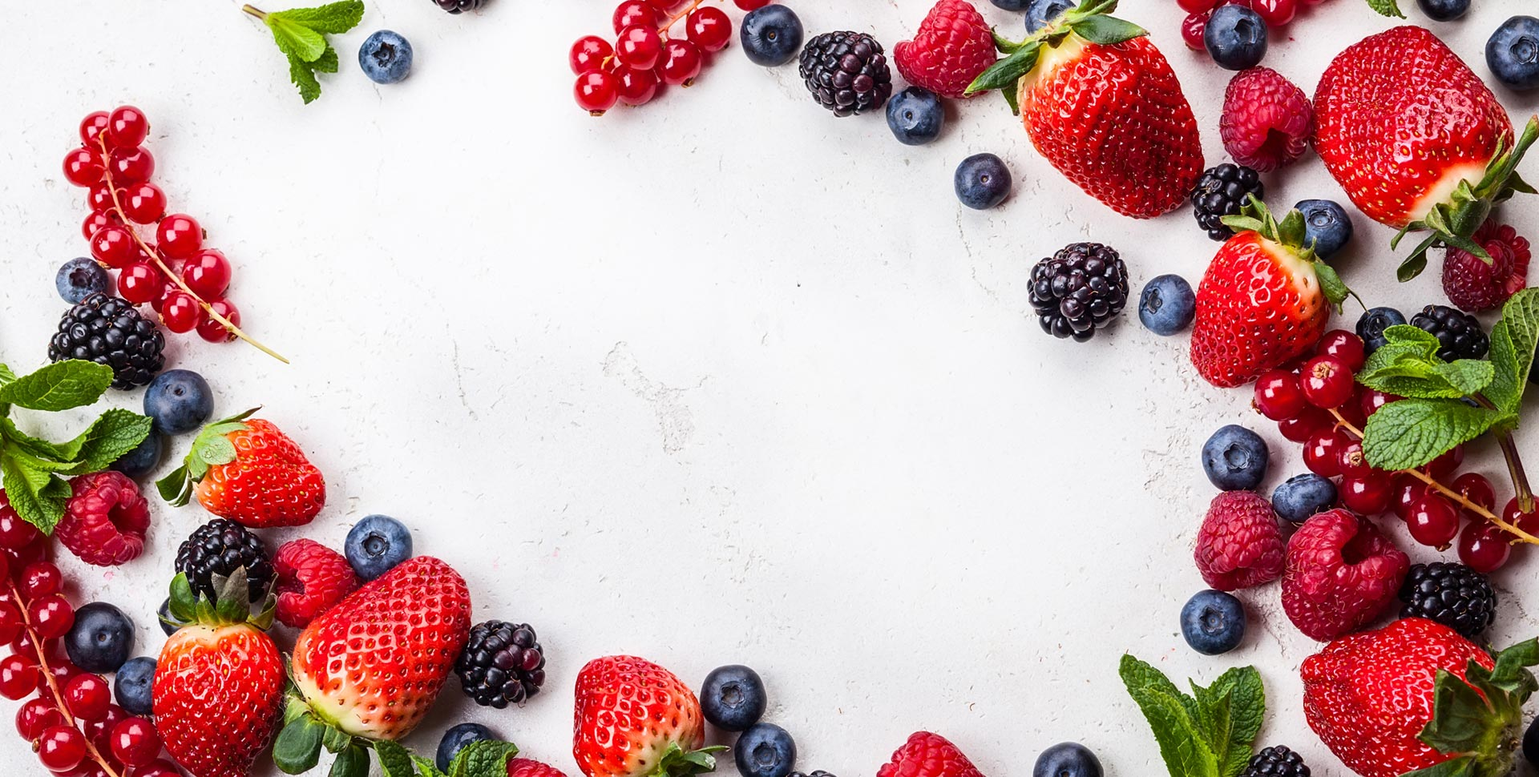
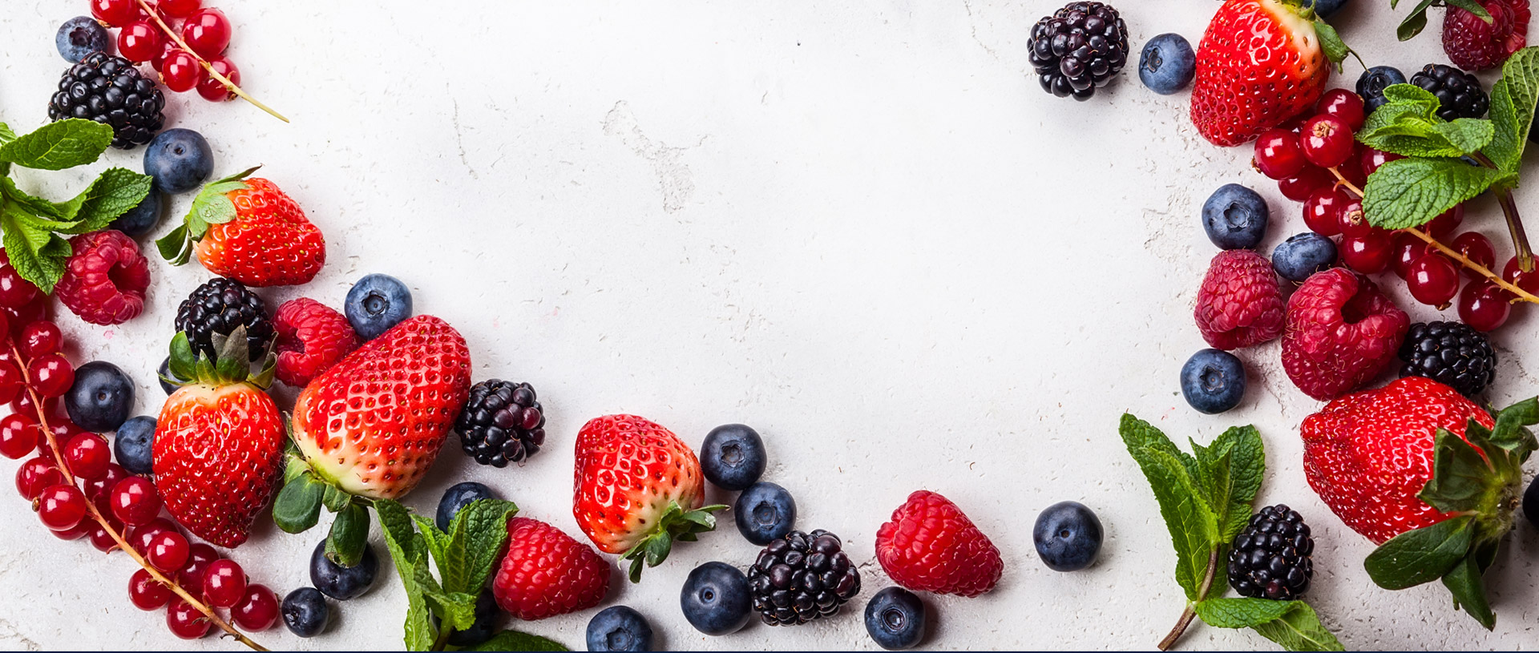
Анимирует иконки в преимуществах

diff --git a/index.html b/index.html
@@ -26,8 +26,12 @@
             </li>
             <li class="site-list__item site-list__item--logo">
               <a class="site-list__link site-list__link--logo">
-                <img src="img/big-logo.svg" class="site-list__image site-list__image--big" alt="Кондитер-сервис" width="175" height="125">
-                <img src="img/small-logo.svg" class="site-list__image site-list__image--small" alt="Кондитер-сервис" width="160" height="50">
+
+                <svg xmlns="http://www.w3.org/2000/svg" viewBox="0 0 177.3 56.4" class="site-list__image site-list__image--small" width="160" height="50"><style>.st4{fill:#97201d}.st5{fill:#322b21}</style><path class="st4" d="M58.4 35c-2.6 1.1-4.2-1.5-7-.2-3 1.3-2.9 6.3-.6 8.8 1.8 1.9 6.5 1.9 9.3.6.8-.4 1.5-1 2.4-.9 0 .3-.2.5-.4.6-4.7 4-10.1 3.2-13.3 1-4.1-2.8-3.5-9.8.3-13.3 2.1-1.9 5.4-2.8 8-2.8 1.5 0 3.2 1.1 3.3 2.7.1 1.1 0 1.4-.3 2-.6 1.2-1.7 1.5-1.7 1.5z"/><path class="st4" d="M63.1 43.1c.7-.3 2.7-2.1 2.9-3.5.1-.7-.6-1.1-1.3-.7-1.2.7-1.9 2.7-1.6 4.2zm.4 1c.1.5.4.7.8.9 2.1.8 3.4.3 4.9-.1.9-.3 2.7-1.3 3.4-1.3.3-.1.1.2.2.4-1.7 1.8-6.2 3.2-8.7 3-2.7-.1-4-2.1-4.1-4.4-.1-2.2 1.1-4.7 3.2-5.7 2-1.1 4.8-1.2 5.7.2 1.7 2.5-1.3 7.3-4.9 7.2l-.5-.2z"/><path class="st4" d="M84.5 42.4c0 .9.9 1.9 2 1.7 1.7 0 2.7-.9 4.2-1.5.9-.4 1.1 0 .3.6-1.6 1.5-3.3 2.4-5.4 2.4h-.2c-2.6-.3-3.5-1.8-3.7-3.7l-.1-.7c-.2-1.1-.4-1.5-1-1.5-.8 0-3 2.7-3.8 4.1-1 1.8-1.5 3.3-2.3 5.6-1 3.1-1.2 5.9-3 5.7-.1 0-.2-.1-.3-.1-1-.3-.9-2.4-.7-4.1.8-5.7 2-13.2 3.6-18.1.4-1.2 1.4-2.2 2.7-2.2.9 0 1.6.7 1.6 2.3v.1c0 1.4-2.9 6.5-3.6 10.4 1.9-4.6 4.5-7.5 6-7.4 2.8.2 3.5 3.7 3.7 6.4z"/><path class="st4" d="M96 43.5s0-.1 0 0c-.2-.8-.9-1.2-1.5-1.4-.4-.1-.5.5-.3.7.3.5 1.8.7 1.8.7zm-3.9-5.7s1.4-.3 2.8-1.3c1.6-1.2 2.9-3.6 1.8-4.3-.9-.5-2.1 1.2-2.8 2.3-.5.7-1.8 3.3-1.8 3.3zm-7.5-.5c.4.2 2.2.6 3.5.8.8.1 1.5.1 1.5.1s1.6-5.8 5-8.1c1.2-.9 3.5-1.4 4.3-.1.7 1.2.7 2.7.4 4.1-.8 3.6-4.5 5.5-7.6 6.2-.1 1 .1 2 .4 2.9.6 1.2 1.2 1.8 2.1 1.8.5 0 .8-.4.8-.4s-.4-.1-.9-.3c-.7-.3-1.6-1-1.6-1.7 0-.3 0-.6.6-1.2 1.1-1 3.9.4 4.1 2 1.1-.2 2.1-.5 3-.8.2-.1.1.1.1.2-.3.7-1.7 1.2-3.2 1.4v.1s-.2 1.9-1.7 2.5c-.6.2-1.4.4-2.3.3-.8-.1-1.1-.3-1.9-.8-2-1.3-2-5.8-2-5.8s-2-.5-2.7-1c-.3-.2-1.6-1.1-2.1-1.7-.2-.4 0-.6.2-.5z"/><path class="st4" d="M111.4 41.3c-.3.7-.5 1.5-.5 2.3 0 .8.5 1.6 1.4 1.9 1.2.1 2.8-1.3 3.4-1.8 1.1-.4.1.7-.3 1-.8.6-2.9 1.8-4 1.8-1.3.1-2.8-1-2.9-2.2-1.6 2.2-3.6 3.3-6.5 2.6-3.3-1.2-3.2-7.1-1.7-9.6.5-1.1 2.1-2 3.4-1.3.5.3.7.8.7 1.3s-.2 1-.4 1.5c-.3.8-1.6 3.4-1.2 4.6.2.7.8 1.1 1.4 1.1 1.1-.1 1.8-.4 2.6-1 1.1-1 1.8-3 2.2-4.2.4-.6 1.1-1.6 2-1.3 1.3.4.9 2.4.4 3.3z"/><path class="st4" d="M128.4 43.8c-.1.4-.4.8-.7 1-2.7 2.2-5.8 2.5-9 2.2-2.8-.3-4.2-2.9-4.1-5.6.1-3.5 3.5-5.1 6.3-5.6 0 0 1-.1 1.7-.1.5 0 1.1.3 1.5.9.3.4.3 1.1-.2 1.6-.6.6-1.8.6-2.6.3-.6-.2-2 .4-2.6.9-.9.9-1.5 2.1-1.4 3.4.3 2 2.7 2.7 4.3 2.8 1.8 0 4.9-1.4 5.9-2.5.1-.1.3-.3.7-.1.4.4.2.7.2.8z"/><path class="st5" d="M23.8 13c.2-.1.4.1.4.3l1.6 6h.2l2.8-7.4c0-.1.1-.2.2-.2l4.7-1.2c.3-.1.5.2.4.5l-3.6 7.3c-.1.2.1.5.3.5 1.8.2 3 1.2 4 2.7 1 1.5 2.1 3.1 3.2 4.5.2.2.1.5-.2.6l-4.2 1.1c-.1 0-.3 0-.4-.1-.8-.9-1.3-1.9-1.9-2.9-.9-1.5-2-2.7-3.8-2.3l-.9.2 1.6 6.1c0 .2-.1.4-.3.4l-3.7 1c-.2.1-.4-.1-.4-.3l-4-15.4c-.1-.2.1-.4.3-.4l3.7-1zM42.4 17.3c.4 2.8 2.3 4.7 4.8 4.3 2.5-.4 3.7-2.7 3.2-5.5-.4-2.8-2.3-4.7-4.8-4.4-2.4.4-3.6 2.8-3.2 5.6zm12.9-2c.7 5-2.2 9.1-7.8 10-5.4.8-9.2-2.3-9.9-7-.8-5 2.3-9.2 7.7-10 5.4-.9 9.3 2.2 10 7zM62.3 7l.4 5.2c0 .2.2.4.5.4l5.4-.4c.3 0 .4-.2.4-.4l-.4-5.2c0-.2.2-.4.4-.4l3.8-.3c.2 0 .4.2.5.4L74.4 22c0 .2-.2.4-.4.4l-4 .2c-.2 0-.4-.2-.5-.4l-.4-5.7c0-.2-.2-.4-.4-.4l-5.4.4c-.2 0-.4.2-.4.4l.4 5.7c0 .2-.2.4-.4.4l-3.8.3c-.2 0-.4-.2-.5-.4l-1-15.6c0-.2.2-.4.4-.4l3.8-.3c.2-.1.4.1.5.4zM84.1 11.2c0 1.6-.3 3.3-.8 4.8-.2.6-.5 1.2-.8 1.8-.2.3.1.7.4.7h3.9c.3 0 .5-.2.5-.5V9.8c0-.3-.2-.5-.5-.5h-2.3c-.3 0-.5.2-.5.5v1.4zM92 6.1l.1 12.1c0 .3.2.5.5.5l.9.1c.3 0 .5.2.5.5l-.2 7c0 .3-.2.5-.5.5h-2.6c-.3 0-.5-.2-.5-.5l-.2-3.6c0-.3-.2-.5-.5-.5l-9.2.1c-.3 0-.5.2-.5.5l-.2 3.5c0 .3-.2.5-.5.5h-2.6c-.3 0-.5-.2-.5-.5l-.2-7.4 1.3-.1c.2 0 .3-.1.4-.2.7-1.1 1.2-2.3 1.6-3.5.4-1.5.6-3.1.6-4.7V6.2c0-.3.2-.5.5-.5l11.3-.1c.3 0 .5.2.5.5zM100.6 6c.3 0 .4.2.4.5l-.3 4c-.2 2.5-.4 5.2-.6 7.7h.1c1.2-2.2 2.6-4.6 3.8-6.4l3.2-5.1c.1-.1.3-.2.4-.2l4.2.3c.2 0 .4.2.4.5l-1 15.7c0 .3-.2.4-.5.4l-3.4-.2c-.3 0-.4-.2-.4-.5l.3-3.9c.2-2.3.3-4.6.8-7h-.1c-1 2.2-2.4 4.6-3.5 6.3l-2.9 4.4c-.1.1-.2.2-.4.2l-5-.3c-.2 0-.4-.2-.4-.5l1-15.7c0-.3.2-.4.4-.4l3.5.2zM118.9 11.4l-3.7-.5c-.3 0-.4-.3-.4-.5l.4-2.8c0-.3.3-.5.5-.4l13 1.8c.3 0 .4.3.4.5l-.4 2.8c0 .3-.3.5-.5.4l-3.8-.5c-.3 0-.5.2-.5.4l-1.6 11.7c0 .3-.3.5-.5.4l-3.6-.5c-.3 0-.4-.3-.4-.6l1.6-11.7c0-.3-.2-.5-.5-.5zM140.9 21.5l-5.7-1.2c-.3-.1-.5.1-.6.4l-.4 1.8c-.1.3.1.5.4.6l6.4 1.4c.3 0 .4.3.4.6l-.6 2.7c-.1.3-.3.4-.6.4l-11-2.3c-.3-.1-.4-.3-.4-.6l3.3-15.3c.1-.3.3-.4.6-.4l10.6 2.3c.3 0 .4.3.4.6l-.6 2.7c-.1.3-.3.4-.6.4l-6.1-1.3c-.3-.1-.5.1-.6.4l-.3 1.5c-.1.3.1.5.4.6l5.6 1.2c.3 0 .4.3.4.6l-.6 2.7c.1.1-.1.3-.4.2zM150.1 21.6c.2.1.5.3 1.1.5 1.7.6 3.2.2 3.7-1.2.4-1.1-.2-2.2-1.9-2.8-.8-.3-1.2-.4-1.5-.4l-1.4 3.9zm-2.1-7.9c.1-.3.4-.4.7-.4 1.2.3 2.9.7 5.4 1.5 2.3.8 3.8 1.8 4.7 3 .8 1.1 1.2 2.8.6 4.5-.5 1.5-1.5 2.7-2.8 3.3-1.8.7-3.9.6-6.3-.2-.5-.2-.9-.4-1.2-.5l-1.6 4.7c-.1.3-.4.5-.8.4l-3.2-1.1c-.3-.1-.5-.4-.4-.7l4.9-14.5zM9.6 22.9c0 1.7-1.3 3-3 3-1.6 0-3-1.3-3-3 0-1.6 1.3-3 3-3 1.6 0 3 1.4 3 3zM168.4 23c0 1.7 1.3 3 3 3s3-1.3 3-3c0-1.6-1.3-3-3-3-1.6 0-3 1.4-3 3z"/>
+                </svg>
+
+                <svg xmlns="http://www.w3.org/2000/svg" viewBox="0 0 177.3 127.3" class="site-list__image site-list__image--big" width="175" height="125"><style>.st7{fill:#97201d}.st6{fill:#322b21}</style><path d="M69.8 63.7c-2.8 0-5 2.2-5 5s2.2 5 5 5c2.7 0 5-2.2 5-5 0-2.7-2.2-5-5-5zm32.6 0c-2.8 0-5 2.2-5 5s2.2 5 5 5 5-2.2 5-5c0-2.7-2.2-5-5-5zm0 2.4c-1.4 0-2.6 1.2-2.6 2.6 0 1.4 1.1 2.6 2.6 2.6 1.4 0 2.6-1.2 2.6-2.6 0-1.4-1.1-2.6-2.6-2.6zM66.6 63c.1-.1.1-.3-.1-.3h-4.3c-2.2-.1-1.9 1.5-1.9 3.5 0 1.9-.2 3.4 2 3.4h1c0-.3-.1-.6-.1-.9 0-2.4 1.4-4.5 3.4-5.7zm45 6.7h-2.3c-.3 0-.7 0-.6-.4.5-2.9-1.1-5.2-2.1-5.9-1.2-.9-2.8-1.3-4.3-1.3-3.6 0-6.5 3-6.5 6.6 0 .3 0 .7.1 1H76.3c0-.3.1-.7.1-1 0-2.5-1.4-4.7-3.5-5.8-.1 0-.1-.2 0-.2h17.2c.3 0 .6-.3.6-.6l.1-19.6c0-.8.7-1.5 1.5-1.5 3.3-.1 8.5 0 8.5 0s.9 0 2 .4c2.4.8 4.4 3.7 6.3 6.1 1 1.1 2.1 2.5 2.9 3.6 1 1.3 1.9 2.7 2 3.9.2 2.3.3 5.5.4 8.7-.1 2.6.2 5.5-2.8 6zm-2.9-18.5c.4.6 1.1 1.2.7 1.9-.3.6-.8.5-.8.5H95c-.6 0-1.1-.5-1.1-1.1v-7.9c0-.6.4-1.2 1-1.2l3.6-.1h2.7c1.8.5 5.5 5 7.5 7.9zM69.8 66.1c-1.4 0-2.6 1.2-2.6 2.6 0 1.4 1.1 2.6 2.6 2.6s2.6-1.2 2.6-2.6c0-1.4-1.1-2.6-2.6-2.6z" fill-rule="evenodd" clip-rule="evenodd" fill="#322b21"/><path class="st7" d="M58.4 105.9c-2.6 1.1-4.2-1.5-7-.2-3 1.3-2.9 6.3-.6 8.8 1.8 1.9 6.5 1.9 9.3.6.8-.4 1.5-1 2.4-.9 0 .3-.2.5-.4.6-4.7 4-10.1 3.2-13.3 1-4.1-2.8-3.5-9.8.3-13.3 2.1-1.9 5.4-2.8 8-2.8 1.5 0 3.2 1.1 3.3 2.7.1 1.1 0 1.4-.3 2-.6 1.1-1.7 1.5-1.7 1.5z"/><path class="st7" d="M63.1 113.9c.7-.3 2.7-2.1 2.9-3.5.1-.7-.6-1.1-1.3-.7-1.2.8-1.9 2.7-1.6 4.2zm.4 1.1c.1.5.4.7.8.9 2.1.8 3.4.3 4.9-.1.9-.3 2.7-1.3 3.4-1.3.3-.1.1.2.2.4-1.7 1.8-6.2 3.2-8.7 3-2.7-.1-4-2.1-4.1-4.4-.1-2.2 1.1-4.7 3.2-5.7 2-1.1 4.8-1.2 5.7.2 1.7 2.5-1.3 7.3-4.9 7.2l-.5-.2z"/><path class="st7" d="M84.5 113.3c0 .9.9 1.9 2 1.7 1.7 0 2.7-.9 4.2-1.5.9-.4 1.1 0 .3.6-1.6 1.5-3.3 2.4-5.4 2.4h-.2c-2.6-.3-3.5-1.8-3.7-3.7l-.1-.7c-.2-1.1-.4-1.5-1-1.5-.8 0-3 2.7-3.8 4.1-1 1.8-1.5 3.3-2.3 5.6-1 3.1-1.2 5.9-3 5.7-.1 0-.2-.1-.3-.1-1-.3-.9-2.4-.7-4.1.8-5.7 2-13.2 3.6-18.1.4-1.2 1.4-2.2 2.7-2.2.9 0 1.6.7 1.6 2.3v.1c0 1.4-2.9 6.5-3.6 10.4 1.9-4.6 4.5-7.5 6-7.4 2.8.1 3.5 3.6 3.7 6.4z"/><path class="st7" d="M96 114.3c-.2-.8-.9-1.2-1.5-1.4-.4-.1-.5.5-.3.7.3.6 1.8.7 1.8.7zm-3.9-5.6s1.4-.3 2.8-1.3c1.6-1.2 2.9-3.6 1.8-4.3-.9-.5-2.1 1.2-2.8 2.3-.5.6-1.8 3.3-1.8 3.3zm-7.5-.6c.4.2 2.2.6 3.5.8.8.1 1.5.1 1.5.1s1.6-5.8 5-8.1c1.2-.9 3.5-1.4 4.3-.1.7 1.2.7 2.7.4 4.1-.8 3.6-4.5 5.5-7.6 6.2-.1 1 .1 2 .4 2.9.6 1.2 1.2 1.8 2.1 1.8.5 0 .8-.4.8-.4s-.4-.1-.9-.3c-.7-.3-1.6-1-1.6-1.7 0-.3 0-.6.6-1.2 1.1-1 3.9.4 4.1 2 1.1-.2 2.1-.5 3-.8.2-.1.1.1.1.2-.3.7-1.7 1.2-3.2 1.4v.1s-.2 1.9-1.7 2.5c-.6.2-1.4.4-2.3.3-.8-.1-1.1-.3-1.9-.8-2-1.3-2-5.8-2-5.8s-2-.5-2.7-1c-.3-.2-1.6-1.1-2.1-1.7-.2-.3 0-.6.2-.5z"/><path class="st7" d="M111.4 112.2c-.3.7-.5 1.5-.5 2.3 0 .8.5 1.6 1.4 1.9 1.2.1 2.8-1.3 3.4-1.8 1.1-.4.1.7-.3 1-.8.6-2.9 1.8-4 1.8-1.3.1-2.8-1-2.9-2.2-1.6 2.2-3.6 3.3-6.5 2.6-3.3-1.2-3.2-7.1-1.7-9.6.5-1.1 2.1-2 3.4-1.3.5.3.7.8.7 1.3s-.2 1-.4 1.5c-.3.8-1.6 3.4-1.2 4.6.2.7.8 1.1 1.4 1.1 1.1-.1 1.8-.4 2.6-1 1.1-1 1.8-3 2.2-4.2.4-.6 1.1-1.6 2-1.3 1.3.4.9 2.3.4 3.3z"/><path class="st7" d="M128.4 114.6c-.1.4-.4.8-.7 1-2.7 2.2-5.8 2.5-9 2.2-2.8-.3-4.2-2.9-4.1-5.6.1-3.5 3.5-5.1 6.3-5.6 0 0 1-.1 1.7-.1.5 0 1.1.3 1.5.9.3.4.3 1.1-.2 1.6-.6.6-1.8.6-2.6.3-.6-.2-2 .4-2.6.9-.9.9-1.5 2.1-1.4 3.4.3 2 2.7 2.7 4.3 2.8 1.8 0 4.9-1.4 5.9-2.5.1-.1.3-.3.7-.1.4.5.2.7.2.8z"/><path class="st6" d="M23.8 83.8c.2-.1.4.1.4.3l1.6 6h.2l2.8-7.4c0-.1.1-.2.2-.2l4.7-1.2c.3-.1.5.2.4.5L30.6 89c-.1.2.1.5.3.5 1.8.2 3 1.2 4 2.7 1 1.5 2.1 3.1 3.2 4.5.2.2.1.5-.2.6l-4.2 1.1c-.1 0-.3 0-.4-.1-.8-.9-1.3-1.9-1.9-2.9-.9-1.5-2-2.7-3.8-2.3l-.9.2 1.6 6.1c0 .2-.1.4-.3.4l-3.7 1c-.2.1-.4-.1-.4-.3l-4-15.4c-.1-.2.1-.4.3-.4l3.6-.9zM42.4 88.2c.4 2.8 2.3 4.7 4.8 4.3 2.5-.4 3.7-2.7 3.2-5.5-.4-2.8-2.3-4.7-4.8-4.4-2.4.4-3.6 2.8-3.2 5.6zm12.9-2.1c.7 5-2.2 9.1-7.8 10-5.4.8-9.2-2.3-9.9-7-.8-5 2.3-9.2 7.7-10 5.4-.9 9.3 2.2 10 7zM62.3 77.8l.4 5.2c0 .2.2.4.5.4l5.4-.4c.3 0 .4-.2.4-.4l-.4-5.2c0-.2.2-.4.4-.4l3.8-.3c.2 0 .4.2.5.4l1.1 15.7c0 .2-.2.4-.4.4l-4 .3c-.2 0-.4-.2-.5-.4l-.4-5.7c0-.2-.2-.4-.4-.4l-5.4.4c-.2 0-.4.2-.4.4l.4 5.7c0 .2-.2.4-.4.4l-3.8.3c-.2 0-.4-.2-.5-.4l-1.1-15.7c0-.2.2-.4.4-.4l3.8-.3c.3 0 .5.2.6.4zM84.1 82c0 1.6-.3 3.3-.8 4.8-.2.6-.5 1.2-.8 1.8-.2.3.1.7.4.7h3.9c.3 0 .5-.2.5-.5v-8.2c0-.3-.2-.5-.5-.5h-2.3c-.3 0-.5.2-.5.5V82zm7.9-5.1l.1 12.1c0 .3.2.5.5.5l.9.1c.3 0 .5.2.5.5l-.2 7c0 .3-.2.5-.5.5h-2.6c-.3 0-.5-.2-.5-.5l-.2-3.6c0-.3-.2-.5-.5-.5l-9.2.1c-.3 0-.5.2-.5.5l-.2 3.5c0 .3-.2.5-.5.5h-2.6c-.3 0-.5-.2-.5-.5l-.2-7.4 1.3-.1c.2 0 .3-.1.4-.2.7-1.1 1.2-2.3 1.6-3.5.4-1.5.6-3.1.6-4.7V77c0-.3.2-.5.5-.5l11.3-.1c.3 0 .5.3.5.5zM100.6 76.8c.3 0 .4.2.4.5l-.3 4c-.2 2.5-.4 5.2-.6 7.7h.1c1.2-2.2 2.6-4.6 3.8-6.4l3.2-5.1c.1-.1.3-.2.4-.2l4.2.3c.2 0 .4.2.4.5l-1 15.7c0 .3-.2.4-.5.4l-3.4-.2c-.3 0-.4-.2-.4-.5l.3-3.9c.2-2.3.3-4.6.8-7h-.1c-1 2.2-2.4 4.6-3.5 6.3l-2.9 4.4c-.1.1-.2.2-.4.2l-5-.3c-.2 0-.4-.2-.4-.5l1-15.7c0-.3.2-.4.4-.4l3.5.2zM118.9 82.2l-3.7-.5c-.3 0-.4-.3-.4-.5l.4-2.8c0-.3.3-.5.5-.4l13 1.8c.3 0 .4.3.4.5l-.4 2.8c0 .3-.3.5-.5.4l-3.8-.5c-.3 0-.5.2-.5.4l-1.6 11.7c0 .3-.3.5-.5.4l-3.6-.5c-.3 0-.4-.3-.4-.6l1.6-11.7c0-.2-.2-.5-.5-.5zM140.9 92.4l-5.7-1.2c-.3-.1-.5.1-.6.4l-.4 1.8c-.1.3.1.5.4.6l6.4 1.4c.3 0 .4.3.4.6l-.6 2.7c-.1.3-.3.4-.6.4l-11-2.3c-.3-.1-.4-.3-.4-.6l3.3-15.3c.1-.3.3-.4.6-.4l10.6 2.3c.3 0 .4.3.4.6l-.6 2.7c-.1.3-.3.4-.6.4l-6.1-1.3c-.3-.1-.5.1-.6.4l-.3 1.5c-.1.3.1.5.4.6l5.6 1.2c.3 0 .4.3.4.6l-.6 2.7c.1.1-.1.2-.4.2zM150.1 92.5c.2.1.5.3 1.1.5 1.7.6 3.2.2 3.7-1.2.4-1.1-.2-2.2-1.9-2.8-.8-.3-1.2-.4-1.5-.4l-1.4 3.9zm-2.1-8c.1-.3.4-.4.7-.4 1.2.3 2.9.7 5.4 1.5 2.3.8 3.8 1.8 4.7 3 .8 1.1 1.2 2.8.6 4.5-.5 1.5-1.5 2.7-2.8 3.3-1.8.7-3.9.6-6.3-.2-.5-.2-.9-.4-1.2-.5l-1.6 4.7c-.1.3-.4.5-.8.4l-3.2-1.1c-.3-.1-.5-.4-.4-.7l4.9-14.5z"/><path class="st5" d="M57.3 2.3s-1.8.3-1.3 3.3c.4 3 1.8 3.7 1.8 3.7s4.7 1.4 8.9 7.2c4.8 6.5 6 15 6 15s.1.5.7 1c.4.3.7.5 1.1.5 0 0-2.6-14-6.4-19.6C62.6 5.1 57.3 2.3 57.3 2.3z"/><path class="st7" d="M84.1 46.1c-2.3.9-5.5-1.2-6.4-3.7-1-2.5.1-5.2 2.4-6.1 2.3-.9 4.9.4 5.9 2.8 1 2.5.4 6.1-1.9 7zm-3.3-12.8c-4.1 1-7.6 2.3-10.4-.5-4.6-4.4-12.4-5.2-15.6.7-.2.4-.4.7-.5 1.1 0 .1-.1.2-.1.3l-.3.9c-1.1 3.4-1.1 7-.5 10.1 1.6 6.8 7 12.1 13.8 13.5 2.1.3 4.3.3 6.2.2 6.7-.9 12.2-5.6 14.4-11.8.1-.3.2-.5.2-.8 2.6-11.2-2.3-14.9-7.2-13.7z"/><path class="st6" d="M9.6 93.8c0 1.7-1.3 3-3 3-1.6 0-3-1.3-3-3 0-1.6 1.3-3 3-3 1.6 0 3 1.3 3 3zM168.4 93.8c0 1.7 1.3 3 3 3s3-1.3 3-3c0-1.6-1.3-3-3-3-1.6.1-3 1.4-3 3z"/>
+                </svg>
               </a>
             </li>
             <li class="site-list__item">
@@ -140,23 +144,35 @@
         <h2 class="block-title advantages__title">Преимущества</h2>
         <ul class="advantages__list">
           <li class="advantages__item advantages__item--production">
+            <div class="advantages__logo">
+              <svg xmlns="http://www.w3.org/2000/svg" viewBox="0 0 198 193.8" class="advantages__image" width="198" height="193"><style>.st1{fill:#9a2828}</style><circle cx="104.7" cy="106.9" r="66.7" fill="#f0f0f0"/><path class="st1" d="M58.4 138.5h-11c-1 0-1.8-.5-1.8-1l-2.3-6.8h19.2l-2.3 6.8c0 .5-.8 1-1.8 1zM33.3 168.2c-4.6 0-8.4-3.8-8.4-8.4s3.8-8.4 8.4-8.4c4.6 0 8.4 3.8 8.4 8.4s-3.8 8.4-8.4 8.4zm0-13.9c-3 0-5.4 2.4-5.4 5.4s2.4 5.4 5.4 5.4c3 0 5.4-2.4 5.4-5.4s-2.4-5.4-5.4-5.4z"/><circle class="st1" cx="33.3" cy="159.8" r="2.1"/><path class="st1" d="M56 168.2c-4.6 0-8.4-3.8-8.4-8.4s3.8-8.4 8.4-8.4c4.6 0 8.4 3.8 8.4 8.4s-3.7 8.4-8.4 8.4zm0-13.9c-3 0-5.4 2.4-5.4 5.4s2.4 5.4 5.4 5.4c3 0 5.4-2.4 5.4-5.4s-2.4-5.4-5.4-5.4z"/><circle class="st1" cx="56" cy="159.8" r="2.1"/><path class="st1" d="M78.8 168.2c-4.6 0-8.4-3.8-8.4-8.4s3.8-8.4 8.4-8.4c4.6 0 8.4 3.8 8.4 8.4s-3.7 8.4-8.4 8.4zm0-13.9c-3 0-5.4 2.4-5.4 5.4s2.4 5.4 5.4 5.4c3 0 5.4-2.4 5.4-5.4s-2.4-5.4-5.4-5.4z"/><circle class="st1" cx="78.8" cy="159.8" r="2.1"/><path class="st1" d="M101.6 168.2c-4.6 0-8.4-3.8-8.4-8.4s3.8-8.4 8.4-8.4c4.6 0 8.4 3.8 8.4 8.4s-3.8 8.4-8.4 8.4zm0-13.9c-3 0-5.4 2.4-5.4 5.4s2.4 5.4 5.4 5.4c3 0 5.4-2.4 5.4-5.4s-2.4-5.4-5.4-5.4z"/><circle class="st1" cx="101.6" cy="159.8" r="2.1"/><path class="st1" d="M124.4 168.2c-4.6 0-8.4-3.8-8.4-8.4s3.8-8.4 8.4-8.4c4.6 0 8.4 3.8 8.4 8.4s-3.8 8.4-8.4 8.4zm0-13.9c-3 0-5.4 2.4-5.4 5.4s2.4 5.4 5.4 5.4 5.4-2.4 5.4-5.4-2.4-5.4-5.4-5.4z"/><circle class="st1" cx="124.4" cy="159.8" r="2.1"/><path class="st1" d="M147.1 168.2c-4.6 0-8.4-3.8-8.4-8.4s3.8-8.4 8.4-8.4c4.6 0 8.4 3.8 8.4 8.4s-3.7 8.4-8.4 8.4zm0-13.9c-3 0-5.4 2.4-5.4 5.4s2.4 5.4 5.4 5.4c3 0 5.4-2.4 5.4-5.4s-2.4-5.4-5.4-5.4z"/><circle class="st1" cx="147.1" cy="159.8" r="2.1"/><path class="st1" d="M169.9 168.2c-4.6 0-8.4-3.8-8.4-8.4s3.8-8.4 8.4-8.4 8.4 3.8 8.4 8.4-3.7 8.4-8.4 8.4zm0-13.9c-3 0-5.4 2.4-5.4 5.4s2.4 5.4 5.4 5.4 5.4-2.4 5.4-5.4-2.4-5.4-5.4-5.4z"/><circle class="st1" cx="169.9" cy="159.8" r="2.1"/><path class="st1" d="M169.4 177H34c-9.3 0-16.8-7.5-16.8-16.8s7.5-16.8 16.8-16.8h135.3c9.3 0 16.8 7.5 16.8 16.8s-7.5 16.8-16.7 16.8zM34 146.5c-7.6 0-13.8 6.2-13.8 13.8S26.4 174 34 174h135.3c7.6 0 13.8-6.2 13.8-13.8s-6.2-13.8-13.8-13.8H34z"/><path class="st1" d="M170.3 185.4h-139c-13.9 0-25.2-11.3-25.2-25.2S17.4 135 31.3 135h139c13.9 0 25.2 11.3 25.2 25.2s-11.3 25.2-25.2 25.2zm-139-45.3c-11.1 0-20.2 9.1-20.2 20.2s9.1 20.2 20.2 20.2h139c11.1 0 20.2-9.1 20.2-20.2s-9.1-20.2-20.2-20.2h-139z"/><path class="st1" d="M91.7 138.5h-11c-1 0-1.8-.5-1.8-1l-2.3-6.8h19.2l-2.3 6.8c-.1.5-.8 1-1.8 1zM44.7 131.7s-3.1-8.1 6.2-8.4c5.5-.2 5-4.5 5-4.5s6.3 4.3 6.6 7.6c.3 4.6-1 5.3-1 5.3H44.7z"/><path class="st1" d="M78 131.7s-3.1-8.1 6.2-8.4c5.5-.2 5-4.5 5-4.5s6.3 4.3 6.6 7.6c.3 4.6-1 5.3-1 5.3H78zM111.2 131.7s-3.1-8.1 6.2-8.4c5.5-.2 5-4.5 5-4.5s6.3 4.3 6.6 7.6c.3 4.6-1 5.3-1 5.3h-16.8zM144.5 131.7s-3.1-8.1 6.2-8.4c5.5-.2 5-4.5 5-4.5s6.3 4.3 6.6 7.6c.3 4.6-1 5.3-1 5.3h-16.8z"/><path class="st1" d="M125 138.5h-11c-1 0-1.8-.5-1.8-1l-2.3-6.8H129l-2.3 6.8c0 .5-.8 1-1.7 1zM158.2 138.5h-11c-1 0-1.8-.5-1.8-1l-2.3-6.8h19.2l-2.3 6.8c0 .5-.8 1-1.8 1zM51.4 96.3l3.5 12.9c.5 1.7 1.9 1.7 2.3 0l3.5-13-9.3.1zM61.7 95.6l3.5 12.9c.5 1.7 1.9 1.7 2.3 0l3.5-13-9.3.1z"/><path class="st1" d="M70.9 95.4l3.5 12.9c.5 1.7 1.9 1.7 2.3 0l3.5-13-9.3.1zM86.5 64.7h-44c-.8 0-1.5-.7-1.5-1.5s.7-1.5 1.5-1.5h44c.8 0 1.5.7 1.5 1.5s-.7 1.5-1.5 1.5zM47 37.2c-.8 0-1.5-.7-1.5-1.5v-16c0-.8.7-1.5 1.5-1.5s1.5.7 1.5 1.5v16c0 .8-.7 1.5-1.5 1.5zM83 37.2c-.8 0-1.5-.7-1.5-1.5v-16c0-.8.7-1.5 1.5-1.5s1.5.7 1.5 1.5v16c0 .8-.7 1.5-1.5 1.5z"/><path class="st1" d="M86 58.7H43c-.7 0-1.3-.4-1.4-1.1l-6-21c-.1-.5 0-.9.2-1.3s.7-.6 1.2-.6h55c.5 0 .9.2 1.2.6s.4.9.2 1.3l-6 21c-.1.6-.7 1.1-1.4 1.1zm-41.8-3h40.7l5.1-18H39l5.2 18zM76 96.5H53.5c-5.9 0-10.8-4.8-10.8-10.8V70.6c0-.8.7-1.5 1.5-1.5s1.5.7 1.5 1.5v15.1c0 4.3 3.5 7.8 7.8 7.8H76c4.3 0 7.8-3.5 7.8-7.8V70.6c0-.8.7-1.5 1.5-1.5s1.5.7 1.5 1.5v15.1c-.1 5.9-4.9 10.8-10.8 10.8zM129.9 136.7c-.6 0-1.1-.3-1.4-.9l-4.7-10.8c-.1-.2-.1-.4-.1-.6V97.7c0-6.8 5.5-12.3 12.3-12.3h32.8c6.8 0 12.3 5.5 12.3 12.3v28.2c0 .4-.1.7-.4 1l-7.8 9.2c-.5.6-1.5.7-2.1.2-.6-.5-.7-1.5-.2-2.1l7.4-8.8V97.7c0-5.1-4.1-9.3-9.3-9.3h-32.8c-5.1 0-9.3 4.1-9.3 9.3v26.5l4.6 10.5c.3.8 0 1.6-.8 2h-.5z"/><path class="st1" d="M146 88.2c-.8 0-1.5-.7-1.5-1.5v-6c0-.8.7-1.5 1.5-1.5s1.5.7 1.5 1.5v6c0 .8-.7 1.5-1.5 1.5zM157 88.2c-.8 0-1.5-.7-1.5-1.5v-6c0-.8.7-1.5 1.5-1.5s1.5.7 1.5 1.5v6c0 .8-.7 1.5-1.5 1.5zM160.5 111.7h-18c-.8 0-1.5-.7-1.5-1.5s.7-1.5 1.5-1.5h18c.8 0 1.5.7 1.5 1.5s-.7 1.5-1.5 1.5zM84.5 78.7h-13c-.8 0-1.5-.7-1.5-1.5s.7-1.5 1.5-1.5h13c.8 0 1.5.7 1.5 1.5s-.7 1.5-1.5 1.5zM84.5 85.7h-9c-.8 0-1.5-.7-1.5-1.5s.7-1.5 1.5-1.5h9c.8 0 1.5.7 1.5 1.5s-.7 1.5-1.5 1.5z"/><path class="st1" d="M169 96.2c-.8 0-1.5.7-1.5 1.5v4h-3v-14c0-.8-.7-1.5-1.5-1.5s-1.5.7-1.5 1.5v14h-20v-14c0-.8-.7-1.5-1.5-1.5s-1.5.7-1.5 1.5v14h-3v-2c0-.8-.7-1.5-1.5-1.5s-1.5.7-1.5 1.5v21.1c0 .3.1.5.2.7l8.5 15.4c.3.5.8.8 1.3.8.2 0 .5-.1.7-.2.7-.4 1-1.3.6-2l-8.3-15.1v-15.7h32v19l-7.2 10.9c-.5.7-.3 1.6.4 2.1.3.2.5.3.8.3.5 0 1-.2 1.2-.7l7.5-11.3c.2-.2.3-.5.3-.8V97.7c0-.9-.7-1.5-1.5-1.5zM163.2 66.2h-22.6c-.8 0-1.5-.7-1.5-1.5v-4.4c0-.8.7-1.5 1.5-1.5s1.5.7 1.5 1.5v2.9h19.6v-2.9c0-.8.7-1.5 1.5-1.5s1.5.7 1.5 1.5v4.4c0 .8-.7 1.5-1.5 1.5z"/><path class="st1" d="M151.5 83.4c-6.4 0-11.5-5.2-11.5-11.5V65c0-.8.7-1.5 1.5-1.5h20c.8 0 1.5.7 1.5 1.5v6.9c0 6.4-5.2 11.5-11.5 11.5zM143 66.5v5.4c0 4.7 3.8 8.5 8.5 8.5s8.5-3.8 8.5-8.5v-5.4h-17z"/><g><path class="st1" d="M161.4 61.7c-1.5 0-2.9-.4-4.2-1.2-1.5.8-3.2 1.2-4.9 1.2-2.1 0-4.1-.6-5.8-1.8-1.3 1.2-3 1.8-4.8 1.8-3.9 0-7.1-3.2-7.1-7.1 0-3.9 3.2-7.1 7.1-7.1.4 0 .7 0 1.1.1 1.6-3.8 5.3-6.4 9.5-6.4 3.7 0 7 2 8.9 5.1 4.3-.1 7.9 3.4 7.9 7.7 0 4.2-3.5 7.7-7.7 7.7zm-4.1-4.5c.4 0 .7.1 1 .4.9.8 2 1.2 3.1 1.2 2.6 0 4.7-2.1 4.7-4.7s-2.1-4.7-4.7-4.7c-.2 0-.5 0-.8.1-.7.1-1.3-.2-1.6-.9-1.2-2.6-3.8-4.3-6.6-4.3-3.4 0-6.3 2.3-7.1 5.6-.1.4-.4.8-.8 1-.4.2-.8.2-1.2.1-.5-.2-1-.3-1.5-.3-2.3 0-4.1 1.9-4.1 4.1s1.9 4.1 4.1 4.1c1.3 0 2.6-.7 3.4-1.7.3-.4.6-.6 1.1-.6.4 0 .9.1 1.2.4 1.4 1.3 3.1 2 5 2 1.5 0 2.9-.4 4.1-1.3.1-.4.4-.5.7-.5z"/></g></svg>
+            </div>
             <h3 class="advantages__subtitle">Производство</h3>
             <p class="advantages__text">Производственная площадка, расположенная в Санкт-Петербурге, оснащена высокотехнологичным
               оборудованием и сертифицирована по системе ХАССП (HACCP), продукция сертифицирована и соответствует
               техническим регламентам Таможенного союза.</p>
           </li>
           <li class="advantages__item advantages__item--service">
+            <div class="advantages__logo">
+              <svg xmlns="http://www.w3.org/2000/svg" viewBox="0 0 168 169.3" class="advantages__image" width="168" height="169"><style>.st1{fill:#9a2828}</style><circle cx="85.1" cy="102.5" r="56.6" fill="#f0f0f0"/><path class="st1" d="M73.3 96.2c-.7 0-1.3-.2-1.7-.6L59 84.5c-.8-.7-.9-1.8-.3-2.6l6.5-8.6c.7-.9 2.2-1.2 3.3-.6l9.5 5.2c.4.2.9.5 1.3.8.4.3.5.8.4 1.3L76 94.5c0 .2-.1.4-.3.5-.5.6-1.4 1.1-2.3 1.1.1.1 0 .1-.1.1zM61.1 82.9l12.2 10.7c.1 0 .3 0 .4-.1L77 80.2c-.1 0-.2-.1-.2-.1l-.2-.1-9.3-5.1h-.1l-6.1 8zm-1.4-.3zM96.7 95.9c-.3 0-.7 0-1-.1-1-.3-1.6-.9-1.9-1.7l-4-13.5c-.3-1.1.2-2.2 1.4-2.8l9.6-4.7c1.4-.7 3.2-.3 4.1.8l6.1 8.3c.7 1 .6 2.3-.4 3.1l-11.7 10c-.6.3-1.4.6-2.2.6zM92.3 80l3.9 13.3c.1.1.7.1.9-.1l11.5-9.9-5.9-8c-.1-.1-.6-.2-.9-.1L92.3 80zm16.6 3.6z"/><path class="st1" d="M24.1 151.5c-.7 0-1.3-.6-1.3-1.3l.7-41.7v-.1C24.7 94.8 35.6 83.6 50 81.1h.2L60 81c.7 0 1.3.6 1.3 1.3 0 .7-.6 1.3-1.3 1.3l-9.6.1c-13.2 2.3-23.2 12.6-24.3 25l-.7 41.7c0 .5-.6 1.1-1.3 1.1zM145.8 151.5c-.7 0-1.3-.6-1.3-1.3l-.7-41.7c-1.1-12.4-11-22.6-24.1-25l-9.9-.3c-.7 0-1.3-.6-1.2-1.3 0-.7.6-1.3 1.3-1.2l9.9.4h.2c14.3 2.5 25.1 13.7 26.3 27.3v.1l.7 41.7c.1.7-.4 1.3-1.2 1.3.1 0 .1 0 0 0zM46.2 151.5c-.7 0-1.3-.6-1.3-1.3v-33.9c0-.7.6-1.3 1.3-1.3.7 0 1.3.6 1.3 1.3v33.9c0 .8-.6 1.3-1.3 1.3zM123.2 151.5c-.7 0-1.3-.6-1.3-1.3v-33.9c0-.7.6-1.3 1.3-1.3s1.3.6 1.3 1.3v33.9c0 .8-.6 1.3-1.3 1.3zM89.6 58.9h-9.9c-.7 0-1.3-.6-1.3-1.3s.6-1.3 1.3-1.3h9.9c.7 0 1.3.6 1.3 1.3s-.6 1.3-1.3 1.3zM87.2 51.4h-4.5c-.7 0-1.3-.6-1.3-1.3 0-.7.6-1.3 1.3-1.3h4.5c.7 0 1.3.6 1.3 1.3 0 .7-.6 1.3-1.3 1.3zM106 50.7c-.5 0-.9-.2-1.1-.7-.3-.6-.1-1.4.5-1.7 1.5-.8 1.8-2.3 2.2-5.9l.4-3-1.2.6c-.6.3-1.4 0-1.7-.6-.3-.6 0-1.4.6-1.7l2.1-1c.5-.3 1-.3 1.5-.1.9.4 1.4 1.7 1.2 3l-.4 3.1c-.4 3.4-.8 6.3-3.6 7.8-.1.2-.3.2-.5.2zM64.1 50.7c-.2 0-.4 0-.6-.1-2.8-1.5-3.1-4.4-3.6-7.8l-.4-3.1c-.2-1.3.4-2.5 1.2-3 .5-.3 1.1-.2 1.5.1l2.1 1c.6.3.9 1.1.6 1.7-.3.6-1.1.9-1.7.6l-1.2-.6.4 3c.4 3.6.8 5.1 2.2 5.9.6.3.9 1.1.5 1.7-.1.4-.6.6-1 .6zM69.9 75.4h-.2c-.7-.1-1.2-.7-1.1-1.4l1.5-10.6c.1-.7.8-1.2 1.4-1.1.7.1 1.2.7 1.1 1.4l-1.5 10.6c0 .6-.6 1.1-1.2 1.1zM98.8 76.5c-.6 0-1.2-.5-1.3-1.1L96 64.8c-.1-.7.4-1.3 1.1-1.4.7-.1 1.3.4 1.4 1.1l1.5 10.6c.1.7-.4 1.3-1.1 1.4h-.1zM76.7 84.2c4-.1 12.8 0 16.4 0 .6 0 .9.7.6 1.2l-8.2 12.4c-.3.4-.9.4-1.2 0l-8.2-12.4c-.3-.6 0-1.2.6-1.2z"/><path class="st1" d="M95.9 131.8L85.8 98.6c-.1-.4-.5-.6-.9-.5-.4-.1-.7.1-.9.5l-10 33.2 10.2 13.7c.2.3.5.3.8.3.3.1.6 0 .8-.3l10.1-13.7zM63.6 36.7c-.1 0-.2 0-.4-.1-.5-.1-.9-.5-1-1-.1-.4-.2-.8-.3-1.3-1.3-5.5-3.6-14.8 4.2-21.2 13.5-11 24.3-5.1 33-.4 6 3.3 11.2 6.1 16.3 3.6.7-.3 1.5-.1 1.9.5 1 1.7-1.4 8.8-4.9 11.4-10.9 8.1-24.4 7.8-38-.8-.7-.4-2.7.4-8.2 6.8-1.4 1.8-1.9 2.5-2.6 2.5zM81.8 9.4c-4.3 0-8.9 1.5-14 5.7-6.3 5.1-4.8 12.5-3.6 17.8.1-.1.2-.2.2-.3 3.2-3.8 8.1-9.4 11.5-7.3 12.8 8.1 24.9 8.4 35.1.9 2-1.5 3.4-5 3.9-6.9-5.7 1.8-11.2-1.1-17-4.3-5-2.8-10.3-5.6-16.1-5.6z"/><path class="st1" d="M85 71.4c-2.4 0-4.8-.7-6.9-2-4.9-3.2-10.9-7.2-11-7.2-1.8-1.2-2.8-3.2-2.9-5.3l-.8-23.8c0-.7.5-1.3 1.2-1.3s1.2.5 1.3 1.2l.8 23.8c0 1.3.7 2.5 1.8 3.2 0 0 6.1 4.1 10.9 7.2 3.4 2.2 7.7 2.2 11.1 0 4.9-3.2 10.9-7.2 11-7.2 1.1-.7 1.7-1.9 1.8-3.2l.8-25.1c0-.7.6-1.3 1.3-1.2.7 0 1.3.6 1.2 1.3l-.8 25.1c-.1 2.1-1.1 4.1-2.9 5.3-.1 0-6.1 4.1-11 7.2-2.1 1.3-4.5 2-6.9 2z"/><path class="st1" d="M78.8 45.9h-9.1c-2.5 0-4.6-2.1-4.6-4.6v-7.1c0-.7.6-1.3 1.3-1.3H83c.7 0 1.3.6 1.3 1.3v6.3c0 2.9-2.5 5.4-5.5 5.4zM67.7 35.4v5.9c0 1.1.9 2.1 2.1 2.1h9.1c1.6 0 2.9-1.3 2.9-2.9v-5H67.7zM100.9 45.9h-9.1c-3 0-5.4-2.4-5.4-5.4v-6.3c0-.7.6-1.3 1.3-1.3h16.6c.7 0 1.3.6 1.3 1.3v7.1c-.1 2.5-2.2 4.6-4.7 4.6zm-12-10.5v5c0 1.6 1.3 2.9 2.9 2.9h9.1c1.1 0 2.1-.9 2.1-2.1v-5.9H88.9zM74.6 26.9c-.2 0-.5-.1-.7-.2-.3-.2-6.4-4.2-6.2-9.9 0-1.2.2-2.3.4-3.4.1-.7.8-1.1 1.5-1 .7.1 1.1.8 1 1.5-.2.9-.3 1.9-.4 3-.2 4.3 5 7.6 5 7.7.6.4.8 1.2.4 1.8-.1.2-.6.5-1 .5zM116.6 120H98c-.7 0-1.3-.3-1.3-1s.6-1 1.3-1h18.7c.7 0 1.3.3 1.3 1s-.7 1-1.4 1z"/><g><path class="st1" d="M71.7 120H53c-.7 0-1.3-.3-1.3-1s.6-1 1.3-1h18.7c.7 0 1.3.3 1.3 1s-.6 1-1.3 1z"/></g><g><path class="st1" d="M86.9 36h-3.4c-.7 0-1.3-.3-1.3-1s.6-1 1.3-1h3.4c.7 0 1.3.3 1.3 1s-.6 1-1.3 1z"/></g></svg>
+            </div>
             <h3 class="advantages__subtitle">Сервис</h3>
             <p class="advantages__text">Мы всегда готовы проконсультировать Вас по выпускаемой продукции, и в соответствии с Вашими
               потребностями, оказать помощь в подборе подходящего продукта или разработать для Вас индивидуальную
               рецептуру.</p>
           </li>
           <li class="advantages__item advantages__item--approach">
+            <div class="advantages__logo">
+              <svg xmlns="http://www.w3.org/2000/svg" viewBox="0 0 164.5 153.5" class="advantages__image" width="165" height="154"><style>.st1{fill:#9a2828}</style><circle cx="89.3" cy="88.3" r="63.3" fill="#f0f0f0"/><path class="st1" d="M117.4 136.1H68.9c-.8 0-1.4-.6-1.4-1.4V105c0-.8.6-1.4 1.4-1.4h48.5c.8 0 1.4.6 1.4 1.4v29.7c0 .7-.6 1.4-1.4 1.4zm-47.1-2.9H116v-26.9H70.3v26.9z"/><path class="st1" d="M71.1 145.9c-.8 0-1.4-.6-1.4-1.4v-9.8c0-.8.6-1.4 1.4-1.4.8 0 1.4.6 1.4 1.4v9.8c0 .8-.6 1.4-1.4 1.4zM116.3 146c-.8 0-1.4-.6-1.4-1.4v-9.8c0-.8.6-1.4 1.4-1.4.8 0 1.4.6 1.4 1.4v9.8c0 .8-.6 1.4-1.4 1.4zM116 121.4h-13.6c-.8 0-1.4-.6-1.4-1.4s.6-1.4 1.4-1.4H116c.8 0 1.4.6 1.4 1.4s-.6 1.4-1.4 1.4zM116.4 129.2h-10.6c-.8 0-1.4-.6-1.4-1.4s.6-1.4 1.4-1.4h10.6c.8 0 1.4.6 1.4 1.4s-.6 1.4-1.4 1.4zM116.5 113H97c-.8 0-1.4-.6-1.4-1.4 0-.8.6-1.4 1.4-1.4h19.5c.8 0 1.4.6 1.4 1.4 0 .8-.6 1.4-1.4 1.4z"/><circle class="st1" cx="76.4" cy="126.2" r="3.8"/><path class="st1" d="M72.8 106.1c-.2 0-.5-.1-.7-.2-.7-.4-.9-1.2-.6-1.9-1.2-1-3.4-2.9-7.5-6.9-.9-.8-1.6-1.5-2.1-2-8-7.4-10.5-19.1-6.2-29.1 1.2-2.9 3.9-4.6 6.9-4.7-.3-2.7.8-5.4 3-7.1C72.8 48.7 81.8 48 90 52l-9-41c-.4-2-.1-4 1-5.7 1.1-1.7 2.8-2.9 4.8-3.3 2-.4 4-.1 5.7 1 1.7 1.1 2.9 2.8 3.3 4.8l6.8 30.9.8-23.7c.1-4.2 3.6-7.5 7.8-7.4 4.2.1 7.5 3.7 7.4 7.9l.3 28.1 3.4-14.4c0-.1 0-.1.1-.2 1.5-3.9 5.8-6 9.7-4.5 3.8 1.4 5.8 5.7 4.5 9.6-.3 3.5-4.3 44.9-21 70.7-.4.7-1.3.8-2 .4s-.9-1.3-.4-2C130 77.3 133.8 34 133.8 33.5c0-.1 0-.3.1-.4.9-2.5-.3-5.2-2.8-6.1-2.5-.9-5.1.3-6.1 2.8l-6 25.9c-.2.7-.8 1.2-1.5 1.1-.7-.1-1.3-.7-1.3-1.4l-.4-40c.1-2.7-2-4.9-4.6-5-2.6-.1-4.8 2-4.9 4.6l-1.2 35c0 .7-.6 1.3-1.3 1.4-.7.1-1.4-.4-1.5-1.1l-9.2-42c-.3-1.2-1-2.3-2.1-3s-2.4-.9-3.6-.6c-1.2.3-2.3 1-3 2.1-.7 1.1-.9 2.4-.6 3.6l9.7 44.1c.1.6-.1 1.1-.6 1.5-.5.3-1.1.3-1.6 0-7.9-5-16.9-4.8-24.1.5-1.8 1.4-2.4 3.8-1.4 5.9.2.5.2 1.1-.2 1.5-.4.4-1 .6-1.5.4-2.4-.7-4.8.4-5.8 2.7-3.8 9-1.6 19.4 5.5 26 .5.5 1.3 1.2 2.1 2 2.3 2.2 7 6.6 7.9 7.2.4.1.6.4.8.7.2.4.2.9 0 1.2l-.6 1.1c-.2.6-.7.9-1.2.9zm1.1-3.8zm-.2-.1zm5.9-12.5c-3.3 0-6.7-1.2-9.3-3.7-4.2-3.9-5.5-10-3.3-15.2.5-1.3.5-2.7-.1-3.9-.2-.5-.2-1.1.2-1.5.4-.4 1-.6 1.5-.4 1.5.4 3.1.2 4.3-.7 3.1-2.4 6.7-2.9 10.4-1.6 2.4.9 4.3 2.4 5.5 3.5 2.7 2.5 4.2 5.8 4.3 9.5.1 3.6-1.2 7.1-3.6 9.7-2.6 2.8-6.2 4.3-9.9 4.3zM70.2 68c.2 1.3 0 2.7-.5 3.9-1.7 4.1-.7 9 2.6 12 4.3 4 11.2 3.8 15.2-.5 2-2.1 3-4.8 2.9-7.7-.1-2.9-1.3-5.5-3.4-7.5-.8-.8-2.5-2.2-4.6-2.9-2.7-1-5.3-.6-7.7 1.2-1.3.9-2.9 1.4-4.5 1.5zm-1.8 3.3z"/><path class="st1" d="M68.5 67.8c-.3 0-.7-.1-1-.4l-4.1-3.8c-.6-.5-.6-1.4-.1-2 .5-.6 1.4-.6 2-.1l4.1 3.8c.6.5.6 1.4.1 2-.3.4-.6.5-1 .5z"/></svg>
+            </div>
             <h3 class="advantages__subtitle">Наш подход</h3>
             <p class="advantages__text">При работе с нашими партнерами, в первую очередь мы уделяем внимание качеству производимой нами
               продукции, т.к. понимаем, что от этого напрямую зависит качество Вашей продукции и уровень продаж!</p>
           </li>
           <li class="advantages__item advantages__item--stuff">
+            <div class="advantages__logo">
+              <svg xmlns="http://www.w3.org/2000/svg" viewBox="0 0 161.5 139" class="advantages__image" width="162" height="139"><style>.st1{fill:#9a2828}.st3{fill:#fff}</style><circle cx="82.2" cy="71.2" r="62.8" fill="#f0f0f0"/><path class="st1" d="M41.8 77.8c-.6 0-1.1-.4-1.3-.9-1.8-5.3-2.8-10.8-2.8-16.5 0-.8.6-1.4 1.4-1.4h90c.8 0 1.4.6 1.4 1.4 0 5.2-.8 10.4-2.4 15.3-.2.7-1 1.2-1.8.9-.7-.2-1.2-1-.9-1.8 1.3-4.2 2.1-8.6 2.2-13h-87c.1 4.9 1 9.6 2.6 14.1.3.7-.1 1.5-.9 1.8-.1.1-.3.1-.5.1zM84.9 107.5c-6.9 0-22-3-22.7-3.2-.8-.2-1.3-.9-1.1-1.7.2-.8.9-1.3 1.7-1.1.2 0 15.5 3.1 22.1 3.1 7.4 0 14.7-.9 21.1-2.7.8-.2 1.5.2 1.7 1 .2.8-.2 1.5-1 1.7-6.5 2-14.1 2.9-21.8 2.9z"/><path class="st1" d="M127 69.3H94.2c-.8 0-1.4-.6-1.4-1.4 0-.8.6-1.4 1.4-1.4H127c.8 0 1.4.6 1.4 1.4 0 .8-.6 1.4-1.4 1.4zM115.3 78.5H99.8c-.8 0-1.4-.6-1.4-1.4 0-.8.6-1.4 1.4-1.4h15.5c.8 0 1.4.6 1.4 1.4.1.8-.6 1.4-1.4 1.4zM106.7 87.8H104c-.8 0-1.4-.6-1.4-1.4 0-.8.6-1.4 1.4-1.4h2.7c.8 0 1.4.6 1.4 1.4 0 .8-.6 1.4-1.4 1.4z"/><path class="st1" d="M128.5 120.1c-.8 0-1.5 0-2.3-.1-14.1-1.1-22.5-10.7-22.5-25.6 0-10.6 6.8-18.4 17.8-20.4 5.3-1 7.5.6 8.9 1.6.2.2.5.4.6.4 1.6 0 2.9-.2 4.1-.3h.3c.8-.1 1.5.4 1.6 1.2.1.8-.4 1.5-1.2 1.6h-.3c-1.2.2-2.6.4-4.5.4-.9 0-1.6-.5-2.2-.9-1.1-.8-2.6-1.9-6.7-1.1-9.7 1.8-15.4 8.4-15.4 17.6 0 5 1.4 21.3 19.9 22.8 8.3.7 15.4-2.8 19.6-9.4 4.3-6.8 4.5-15.4.7-22-.4-.7-.2-1.5.5-1.9.7-.4 1.5-.2 1.9.5 4.4 7.5 4.1 17.3-.8 24.9-4.4 6.8-11.6 10.7-20 10.7z"/><path class="st3" d="M116.6 83.5c1.8-1.7 3.4-2.5 4.7-2.8"/><path class="st1" d="M116.6 84.9c-.4 0-.8-.2-1-.5-.5-.6-.5-1.5.1-2 1.7-1.6 3.5-2.6 5.3-3.2.7-.2 1.5.2 1.7 1 .2.7-.2 1.5-1 1.7-1.4.4-2.8 1.2-4.2 2.5-.2.4-.6.5-.9.5zM121.8 112.9c-.2 0-.3 0-.5-.1-4.9-1.9-9-6.5-10.7-12-1.5-4.6-1-9.2 1.2-12.7.4-.7 1.3-.8 2-.4s.8 1.3.4 2c-1.8 2.7-2.1 6.5-.9 10.3 1.5 4.7 5 8.6 9.1 10.2.7.3 1.1 1.1.8 1.8-.3.5-.8.9-1.4.9zM131.1 79.7c-.7 0-1.3-.6-1.4-1.3-.3-4.4 1.6-9.1 5-12.4 2.9-2.8 6.6-4.1 10-3.7.8.1 1.3.8 1.2 1.6-.1.8-.8 1.3-1.6 1.2-2.6-.3-5.4.8-7.7 3-2.8 2.7-4.4 6.6-4.2 10.1.1.8-.5 1.5-1.3 1.5.1 0 0 0 0 0zM56.7 61.1c-.4 0-.9-.2-1.2-.6-1.1-1.5-1.6-3.4-1.6-5.2 0-5.1 4.2-9.3 9.4-9.3 3.3 0 6.4 1.7 8.1 4.6.8 1.4 1 2 1 3.7 0 .8-.6 1.4-1.4 1.4s-1.4-.6-1.4-1.4c0-1.2 0-1.2-.6-2.2-1.2-2-3.4-3.2-5.7-3.2-3.7 0-6.6 2.9-6.6 6.5 0 1.3.4 2.6 1.1 3.6.4.6.3 1.5-.4 2-.2 0-.5.1-.7.1z"/><path class="st1" d="M60.5 48.1c-.5 0-1-.3-1.3-.8-.6-1.1-.8-2.4-.6-3.6.5-3.4 3.7-5.7 7.1-5.2 2.2.3 4.1 1.8 4.9 3.8.4 1 .6 2.1.4 3.2-.1.8-.8 1.3-1.6 1.2-.8-.1-1.3-.8-1.2-1.6.1-.6 0-1.2-.2-1.7-.5-1.1-1.5-1.9-2.7-2.1-1.9-.3-3.7 1-3.9 2.8-.1.7 0 1.3.3 2s.1 1.5-.6 1.9c-.1 0-.4.1-.6.1zM83.9 49.5c-.8 0-1.4-.6-1.4-1.4 0-5.2 4.2-9.5 9.2-9.5 3.2 0 6.3 1.7 7.9 4.5.8 1.4 1.3 3 1.3 4.6 0 .8-.6 1.4-1.4 1.4-.8 0-1.4-.6-1.4-1.4 0-1.1-.3-2.2-.9-3.2-1.1-1.9-3.2-3.1-5.5-3.1-3.4 0-6.4 3.1-6.4 6.7 0 .8-.6 1.4-1.4 1.4z"/><path class="st1" d="M69.2 49.3c-.8 0-1.4-.6-1.4-1.4 0-4.7 4.2-8.7 9.2-8.7 3.5 0 6.7 2.5 8.2 4.7.4.7.2 1.5-.4 2-.7.4-1.5.2-2-.4-1.1-1.7-3.5-3.5-5.9-3.5-3.4 0-6.4 2.8-6.4 5.9.1.8-.6 1.4-1.3 1.4zM107.2 58.1c-.8 0-1.4-.6-1.4-1.4 0-1.2-.3-2.3-.9-3.3-1.2-2-3.5-3.2-6-3.2-3.8 0-6.9 2.9-6.9 6.5 0 .8-.6 1.4-1.4 1.4-.8 0-1.4-.6-1.4-1.4 0-5.1 4.4-9.3 9.8-9.3 3.4 0 6.6 1.8 8.4 4.6.9 1.4 1.4 3.1 1.4 4.8-.1.6-.8 1.3-1.6 1.3z"/><path class="st1" d="M80.1 42c-.7 0-1.2-.5-1.4-1.1-.4-2.1-.1-4.3 1-6 1.1-1.7 2.8-2.9 4.9-3.4 2.7-.6 5.5.5 7.3 2.7.9 1.1 1.6 2.4 1.8 3.8.2.8-.3 1.5-1.1 1.7-.8.2-1.5-.3-1.7-1.1-.2-1-.6-1.9-1.2-2.6-1.2-1.4-2.9-2.1-4.6-1.7-1.3.3-2.4 1-3 2.1-.7 1.1-.9 2.5-.7 3.9.2.8-.3 1.5-1.1 1.7h-.2z"/><path class="st1" d="M106.1 42.5h-.1c-.8-.1-1.3-.8-1.3-1.5.1-1 0-2-.4-2.9-.7-1.7-2.2-2.9-3.9-3.1-2.8-.3-5.1 1.8-5.4 4.7-.1.8-.8 1.3-1.5 1.3-.8-.1-1.3-.8-1.3-1.5.5-4.5 4.2-7.7 8.5-7.2 2.7.3 5.1 2.1 6.3 4.8.6 1.3.8 2.8.6 4.3-.2.6-.8 1.1-1.5 1.1zM119.4 48h-.4c-.8-.2-1.2-1-1-1.7.2-.6.2-1.3 0-1.9-.3-1.2-1.1-2-2.1-2.3-.9-.2-1.7-.2-2.3.2-.7.4-1.1 1-1.4 1.9-.2.8-1 1.2-1.7 1-.8-.2-1.2-1-1-1.7.4-1.6 1.4-2.9 2.8-3.6 1.3-.7 2.8-.8 4.4-.4 2 .5 3.6 2.2 4.2 4.3.3 1.1.2 2.2 0 3.3-.3.5-.9.9-1.5.9z"/><path class="st1" d="M123.5 57.4c-.2 0-.3 0-.5-.1-.7-.3-1.1-1.1-.8-1.8.3-.7.4-1.6.2-2.3-.3-1.6-1.4-3-2.9-3.6-1.2-.5-2.4-.4-3.6 0-1.1.5-2 1.3-2.4 2.5-.3.7-1.1 1.1-1.8.8-.7-.3-1.1-1.1-.8-1.8.7-1.8 2.1-3.3 4-4 1.8-.8 3.8-.8 5.7-.1 2.4 1 4.2 3.2 4.7 5.7.2 1.3.1 2.6-.4 3.8-.3.6-.9.9-1.4.9zM70.5 60.6c-.8 0-1.4-.6-1.4-1.4-.2-6.1 4.7-11.1 10.9-11.3 4-.1 7.7 1.9 9.8 5.1 1.1 1.7 1.6 3.6 1.7 5.5 0 .8-.6 1.4-1.4 1.4-.8 0-1.4-.6-1.4-1.4 0-1.5-.5-2.9-1.3-4.1-1.6-2.4-4.4-3.9-7.3-3.8-4.6.1-8.3 3.9-8.1 8.4-.1.9-.7 1.6-1.5 1.6z"/><path class="st1" d="M113 50.2h-.3c-.8-.2-1.2-.9-1.1-1.7.1-.5.1-.5-.2-1.2l-.2-.4c-.7-1.5-2.2-2.7-4.1-3.1-2.9-.6-5.7.8-6.2 3.1-.2.8-.9 1.3-1.7 1.1-.8-.2-1.3-.9-1.1-1.7.8-3.9 5.1-6.2 9.5-5.3 2.8.6 5.1 2.4 6.2 4.8l.2.3c.3.8.7 1.5.4 2.9-.1.8-.7 1.2-1.4 1.2zM123.3 60.9c-.8 0-1.4-.6-1.4-1.4 0-1.1-.3-2.2-.8-3.1-1.1-1.9-3.1-3-5.2-3-3.4 0-6.1 2.8-6.1 6.2 0 .8-.6 1.4-1.4 1.4-.8 0-1.4-.6-1.4-1.4 0-5 4-9 8.9-9 3.1 0 6.1 1.7 7.7 4.5.8 1.4 1.2 3 1.2 4.6-.1.6-.7 1.2-1.5 1.2zM48.9 61.5c-.3 0-.6-.1-.9-.3-.1-.1-3.3-2.8-2.9-7.3.2-2.4 1.4-5.6 4.2-7.4 1.7-1.1 4.6-2.1 8.9-.5.7.3 1.1 1.1.8 1.8-.3.7-1.1 1.1-1.8.8-2.6-.9-4.8-.9-6.4.2-2 1.3-2.8 3.6-3 5.3-.2 3.1 1.9 4.9 1.9 4.9.6.5.7 1.4.2 2-.2.3-.6.5-1 .5zM146 86.3c-.7 0-1.4 0-2-.1-6.9-1.2-11.9-12.8-12.4-14.1-.2-.4-.1-.8.1-1.2.2-.4.5-.6.9-.7.1 0 2.7-.6 8.6-.3 10.1.5 15.9 12.4 16.2 12.9.2.4.2.8 0 1.2-.2.4-.5.7-.9.8-.3 0-6.2 1.5-10.5 1.5zm-11-13.6c1.8 3.8 5.6 10 9.5 10.7 2.3.4 6.7-.4 9.5-1-1.8-3-6.5-9.4-12.9-9.7-2.8-.1-4.8-.1-6.1 0zM67.3 108.6c-.6 4.3 2.4 8.3 6.8 8.9 7 .9 11-2 11.3-8.1.2-4.3-2.2-5.1-6.6-5.7-.6-.1-3.8-1.8-4.4-1.8-4.5-.5-6.6 3-7.1 6.7zM88.7 117.8c1.2 4.2 4.4 5.8 8.8 5.5 4.7-.3 8.6-4.5 7.5-9.1-2-8.4-6.3-4.4-10.6-4.4-6.6 0-6.9 3.9-5.7 8z"/><path class="st1" d="M95.8 112.6c-.4 0-.8-.2-1.1-.6-.2-.3-5-6.7-5.9-11.5-.3-1.9-.6-6.2-.7-9-1.7 1.2-4 3.1-5.9 5.6-3.1 4.1-2.9 8.6-2.9 8.6.1.8-.5 1.4-1.3 1.5-.8.1-1.4-.5-1.5-1.3 0-.2-.3-5.6 3.4-10.5 3.6-4.8 8.6-7.5 8.8-7.6.4-.2.9-.2 1.4 0 .4.2.7.7.7 1.2 0 .1.3 8.4.8 11 .8 4.2 5.3 10.3 5.4 10.3.5.6.3 1.5-.3 2-.3.2-.6.3-.9.3z"/><path class="st1" d="M83.8 89.6c-1.7 0-3.4-.2-4.8-.9-3.7-1.9-8.8-5.1-9.1-5.2-.4-.3-.7-.8-.7-1.3s.3-1 .8-1.2c1.2-.6 12.3-6 16.6-1.7 3.9 4 4.6 7.5 4.6 7.7.1.7-.3 1.4-1 1.6-.1.1-3.1 1-6.4 1zm-10.1-7.1c1.8 1.1 4.4 2.6 6.5 3.7 2.1 1 5.6.6 7.8.2-.5-1.2-1.5-3-3.4-5-1.7-1.9-7.1-.4-10.9 1.1z"/><path class="st1" d="M90.3 89.4c-.5 0-1-.3-1.3-.8-.3-.7 0-1.5.7-1.9l7.1-3.5c.7-.3 1.5 0 1.9.7.3.7 0 1.5-.7 1.9l-7.1 3.5c-.2.1-.4.1-.6.1z"/><circle class="st1" cx="62.7" cy="51.5" r="1.2"/><circle class="st1" cx="79.1" cy="54.7" r="1.3"/><circle class="st1" cx="99.8" cy="55.6" r="1.3"/><circle class="st1" cx="76.3" cy="47.2" r="1.3"/><path class="st1" d="M44.3 117c-1.7 0-3.3-.2-4.9-.6-.8-.2-1.2-1-1-1.7.2-.8.9-1.2 1.7-1 1.4.3 2.8.5 4.2.5 9.6 0 17.4-7.8 17.4-17.4s-7.8-17.4-17.4-17.4-17.4 7.8-17.4 17.4c0 1.1.1 2.2.3 3.3.1.8-.4 1.5-1.1 1.7-.8.1-1.5-.4-1.7-1.1-.2-1.3-.4-2.6-.4-3.8 0-11.1 9.1-20.2 20.2-20.2s20.2 9.1 20.2 20.2S55.5 117 44.3 117z"/><ellipse transform="rotate(-14.567 41.488 83.201)" class="st1" cx="41.5" cy="83.2" rx="3.1" ry="1.9"/><ellipse transform="rotate(-29.105 53.561 96.56)" class="st1" cx="53.6" cy="96.6" rx="1.4" ry="1.4"/><ellipse transform="rotate(-29.105 58.034 92.993)" class="st1" cx="58" cy="93" rx="1.4" ry="1.4"/><ellipse transform="rotate(-29.105 54.231 105.048)" class="st1" cx="54.2" cy="105" rx="1.6" ry="1.6"/><ellipse transform="rotate(-29.105 58.771 100.118)" class="st1" cx="58.8" cy="100.1" rx="1.4" ry="1.4"/><ellipse transform="rotate(-34.835 50.073 109.438)" class="st1" cx="50.1" cy="109.4" rx="1.1" ry="1.1"/><path class="st1" d="M32.5 123.5c-5.6 0-11.8-5.2-14-9.9-3.6-7.6 4.9-11.7 7.6-13 2.9-1.4 10.5-5 14.2 2.7 2.7 5.6 2 16.5-4.4 19.5-1.1.5-2.2.7-3.4.7zm.9-22.1c-1.6 0-3.5.6-6.1 1.8-7.7 3.6-7.5 6.7-6.3 9.2 2.2 4.6 9.2 10 13.7 7.8 4.2-2 5.3-10.9 3-15.7-1-2.1-2.3-3.1-4.3-3.1z"/><ellipse transform="rotate(-19.221 23.614 111.734)" class="st1" cx="23.6" cy="111.7" rx="1.1" ry="2.1"/><ellipse transform="rotate(-13.344 34.997 109.426)" class="st1" cx="35" cy="109.4" rx="1.1" ry="2.1"/><ellipse transform="rotate(-21.14 29.739 107.453)" class="st1" cx="29.7" cy="107.4" rx="1.1" ry="2.1"/><ellipse transform="rotate(-18.54 34.04 116.162)" class="st1" cx="34" cy="116.2" rx="1.1" ry="2.1"/><ellipse transform="rotate(-18.414 28.484 115.205)" class="st1" cx="28.5" cy="115.2" rx="1.1" ry="2.1"/><path class="st1" d="M12.6 102.3s1.2 4.5 5.1 4.6c1.8.1 3.3-.9 3.3-.9l7.1-4.7s-10.1-2.3-15.5 1z"/><path class="st1" d="M34.1 93.7s.4 3.5-.4 4.7c-.8 1.2-2.3 1.6-2.3 1.6l-5.4 1.6-1.3.4c.1.1 4.5-6.6 9.4-8.3z"/><path class="st1" d="M25.5 102.2c-.6 0-1.2-.4-1.4-1.1 0 0-.6-1.8-3.7-3.4-3.4-1.7-7.1-1.2-7.1-1.2-.8.1-1.5-.4-1.6-1.2-.1-.8.4-1.5 1.2-1.6.2 0 4.6-.7 8.8 1.4 4.3 2.2 5.1 4.9 5.2 5.2.2.8-.3 1.5-1 1.7-.1.2-.2.2-.4.2z"/><circle class="st3" cx="72.7" cy="107.4" r="2.5"/><path class="st1" d="M49.2 48.7c-.3 0-.6-.1-.8-.3-.3-.2-7.2-5.5-6.3-15.2.5-5 1.2-7.6 1.2-7.7.2-.7.9-1.1 1.6-1 .4.1 9 1.7 15.9 7.5 7.1 6 6.5 10.4 6.4 10.9-.2.8-.9 1.3-1.7 1.1-.8-.1-1.2-.9-1.1-1.6 0-.1.3-3.4-5.4-8.2-4.8-4.1-10.7-5.9-13.3-6.6-.2 1.2-.6 3.1-.8 5.9-.8 8.2 5.1 12.6 5.1 12.7.6.5.8 1.3.3 2-.2.3-.7.5-1.1.5z"/><path class="st1" d="M58.3 47.5c-.6 0-1.1-.3-1.3-.9 0 0-1.1-2.9-2.7-6.5-1.4-3.3-5.3-7.5-5.3-7.6-.5-.6-.5-1.5.1-2s1.5-.5 2 .1c.2.2 4.2 4.6 5.9 8.4 1.5 3.6 2.7 6.5 2.7 6.6.3.7-.1 1.5-.8 1.8-.3.1-.5.1-.6.1z"/><circle class="st1" cx="139.8" cy="114.8" r="7.5"/><g><path class="st1" d="M44 59.8s-.1 0 0 0c-.3 0-5.1-.4-9.7-4.4-4.7-4.1-4.6-6.8-4.5-7.3 0-.3.2-.6.4-.8.2-.2 2.4-2.2 7.1-2.4 4.5-.2 9.7 1.1 9.9 1.1.8.2 1.2 1 1 1.7-.2.8-1 1.2-1.7 1 0 0-5-1.2-9.1-1.1-2.5.1-4 .8-4.8 1.2.2.7 1 2.2 3.4 4.3 3.9 3.4 8 3.7 8 3.7.8.1 1.4.7 1.3 1.5 0 1-.6 1.5-1.3 1.5z"/></g></svg>
+            </div>
             <h3 class="advantages__subtitle">Сырье и отбор поставщиков</h3>
             <p class="advantages__text">При нашем подходе, мы уделяем большое внимание отбору и контролю поставщиков сырья. Следуя нашим
               жестким правилам, в данном вопросе, вы можете быть уверены в высоком качестве готовой продукции!</p>
@@ -462,7 +478,7 @@
     </div>
   </footer>
 
-  <script src="js/fix-header.js"></script>
+  <script src="js/window-scroll.js"></script>
   <script src="js/slider.js"></script>
 </body>
 </html>

diff --git a/css/style.css b/css/style.css
@@ -78,7 +78,7 @@ img {
   min-height: 667px;
   background-color: #f5f5f7;
   background-image: url("../img/header-bg.jpg");
-  background-position: center bottom;
+  background-position: 50% 0;
   background-repeat: no-repeat; }
 
 .page-header__wrapper {
@@ -243,8 +243,14 @@ img {
   background-image: url("../img/logo-bg.png");
   background-repeat: no-repeat; }
 
+.site-list__image--big {
+  width: 175px;
+  height: 125px; }
+
 .site-list__image--small {
-  display: none; }
+  display: none;
+  width: 160px;
+  height: 50px; }
 
 .block-title {
   font-size: 36px;
@@ -416,23 +422,69 @@ img {
   width: 420px; }
   .advantages__item:not(:nth-child(2n)) {
     margin-right: 20px; }
-  .advantages__item::before {
-    content: "";
-    position: absolute;
-    top: 13px;
-    left: 0;
-    width: 150px;
-    height: 150px;
-    background-repeat: no-repeat;
-    background-position: center; }
-  .advantages__item--production::before {
-    background-image: url("../img/production-icon.svg"); }
-  .advantages__item--service::before {
-    background-image: url("../img/service-icon.svg"); }
-  .advantages__item--approach::before {
-    background-image: url("../img/approach-icon.svg"); }
-  .advantages__item--stuff::before {
-    background-image: url("../img/stuff-icon.svg"); }
+
+.advantages__logo {
+  position: absolute;
+  top: 13px;
+  left: 0;
+  width: 150px;
+  height: 150px; }
+
+.advantages__image {
+  width: 100%;
+  height: auto;
+  opacity: 0; }
+
+.advantages__image--show {
+  -webkit-animation: show 0.9s;
+          animation: show 0.9s;
+  opacity: 1; }
+
+@-webkit-keyframes show {
+  0% {
+    -webkit-transform: perspective(150px) rotate3d(1, 0, 0, 90deg);
+            transform: perspective(150px) rotate3d(1, 0, 0, 90deg);
+    -webkit-transition-timing-function: ease-in;
+            transition-timing-function: ease-in;
+    opacity: 0; }
+  40% {
+    -webkit-transform: perspective(150px) rotate3d(1, 0, 0, -20deg);
+            transform: perspective(150px) rotate3d(1, 0, 0, -20deg);
+    -webkit-transition-timing-function: ease-in;
+            transition-timing-function: ease-in; }
+  60% {
+    -webkit-transform: perspective(150px) rotate3d(1, 0, 0, 10deg);
+            transform: perspective(150px) rotate3d(1, 0, 0, 10deg);
+    opacity: 1; }
+  80% {
+    -webkit-transform: perspective(150px) rotate3d(1, 0, 0, -5deg);
+            transform: perspective(150px) rotate3d(1, 0, 0, -5deg); }
+  100% {
+    -webkit-transform: perspective(150px);
+            transform: perspective(150px); } }
+
+@keyframes show {
+  0% {
+    -webkit-transform: perspective(150px) rotate3d(1, 0, 0, 90deg);
+            transform: perspective(150px) rotate3d(1, 0, 0, 90deg);
+    -webkit-transition-timing-function: ease-in;
+            transition-timing-function: ease-in;
+    opacity: 0; }
+  40% {
+    -webkit-transform: perspective(150px) rotate3d(1, 0, 0, -20deg);
+            transform: perspective(150px) rotate3d(1, 0, 0, -20deg);
+    -webkit-transition-timing-function: ease-in;
+            transition-timing-function: ease-in; }
+  60% {
+    -webkit-transform: perspective(150px) rotate3d(1, 0, 0, 10deg);
+            transform: perspective(150px) rotate3d(1, 0, 0, 10deg);
+    opacity: 1; }
+  80% {
+    -webkit-transform: perspective(150px) rotate3d(1, 0, 0, -5deg);
+            transform: perspective(150px) rotate3d(1, 0, 0, -5deg); }
+  100% {
+    -webkit-transform: perspective(150px);
+            transform: perspective(150px); } }
 
 .advantages__subtitle {
   margin: 0;

diff --git a/js/window-scroll.js b/js/window-scroll.js
@@ -1,0 +1,37 @@
+'use strict';
+
+(function () {
+  var header = document.querySelector('.page-header');
+  var navigation = header.querySelector('.page-header__wrapper');
+  var headerHeight = header.offsetHeight;
+  var advantage = document.querySelector('.advantages');
+  var advantageImages = advantage.querySelectorAll('.advantages__image');
+
+  var parallax = function (block) {
+    var pos = 0;
+    pos = - ((window.scrollY - block.offsetTop) / 10);
+    block.style.backgroundPosition = '50%' + pos + 'px';
+  };
+
+  window.onscroll = function () {
+    if (window.pageYOffset >= headerHeight && !navigation.classList.contains('page-header__wrapper--fix')) {
+      navigation.classList.add('page-header__wrapper--fix');
+    } else if (window.pageYOffset < headerHeight && navigation.classList.contains('page-header__wrapper--fix')) {
+      navigation.classList.remove('page-header__wrapper--fix');
+    }
+
+    if (window.pageYOffset !== 0 && window.pageYOffset < headerHeight) {
+      parallax(header);
+    }
+
+    if (window.pageYOffset >= advantage.offsetTop - navigation.offsetHeight) {
+      advantageImages.forEach(function (image) {
+        image.classList.add('advantages__image--show');
+      });
+    } else {
+      advantageImages.forEach(function (image) {
+        image.classList.remove('advantages__image--show');
+      });
+    }
+  };
+})();

diff --git a/sass/blocks/advantages.scss b/sass/blocks/advantages.scss
@@ -32,34 +32,52 @@
   &:not(:nth-child(2n)) {
     margin-right: 20px;
   }
+}
 
-  &::before {
-    content: "";
-    position: absolute;
-    top: 13px;
-    left: 0;
+.advantages__logo {
+  position: absolute;
+  top: 13px;
+  left: 0;
 
-    width: 150px;
-    height: 150px;
+  width: 150px;
+  height: 150px;
+}
 
-    background-repeat: no-repeat;
-    background-position: center;
+.advantages__image {
+  width: 100%;
+  height: auto;
+
+  opacity: 0;
+}
+
+.advantages__image--show {
+  animation: show 0.9s;
+  opacity: 1;
+}
+
+@keyframes show {
+  0% {
+    transform: perspective(150px) rotate3d(1, 0, 0, 90deg);
+    transition-timing-function: ease-in;
+    opacity: 0;
   }
 
-  &--production::before {
-    background-image: url("../img/production-icon.svg");
+  40% {
+    transform: perspective(150px) rotate3d(1, 0, 0, -20deg);
+    transition-timing-function: ease-in;
   }
 
-  &--service::before {
-    background-image: url("../img/service-icon.svg");
+  60% {
+    transform: perspective(150px) rotate3d(1, 0, 0, 10deg);
+    opacity: 1;
   }
 
-  &--approach::before {
-    background-image: url("../img/approach-icon.svg");
+  80% {
+    transform: perspective(150px) rotate3d(1, 0, 0, -5deg);
   }
 
-  &--stuff::before {
-    background-image: url("../img/stuff-icon.svg");
+  100% {
+    transform: perspective(150px);
   }
 }
 

diff --git a/sass/blocks/site-list.scss b/sass/blocks/site-list.scss
@@ -64,6 +64,13 @@
   background-repeat: no-repeat;
 }
 
+.site-list__image--big {
+  width: 175px;
+  height: 125px;
+}
+
 .site-list__image--small {
   display: none;
+  width: 160px;
+  height: 50px;
 }
